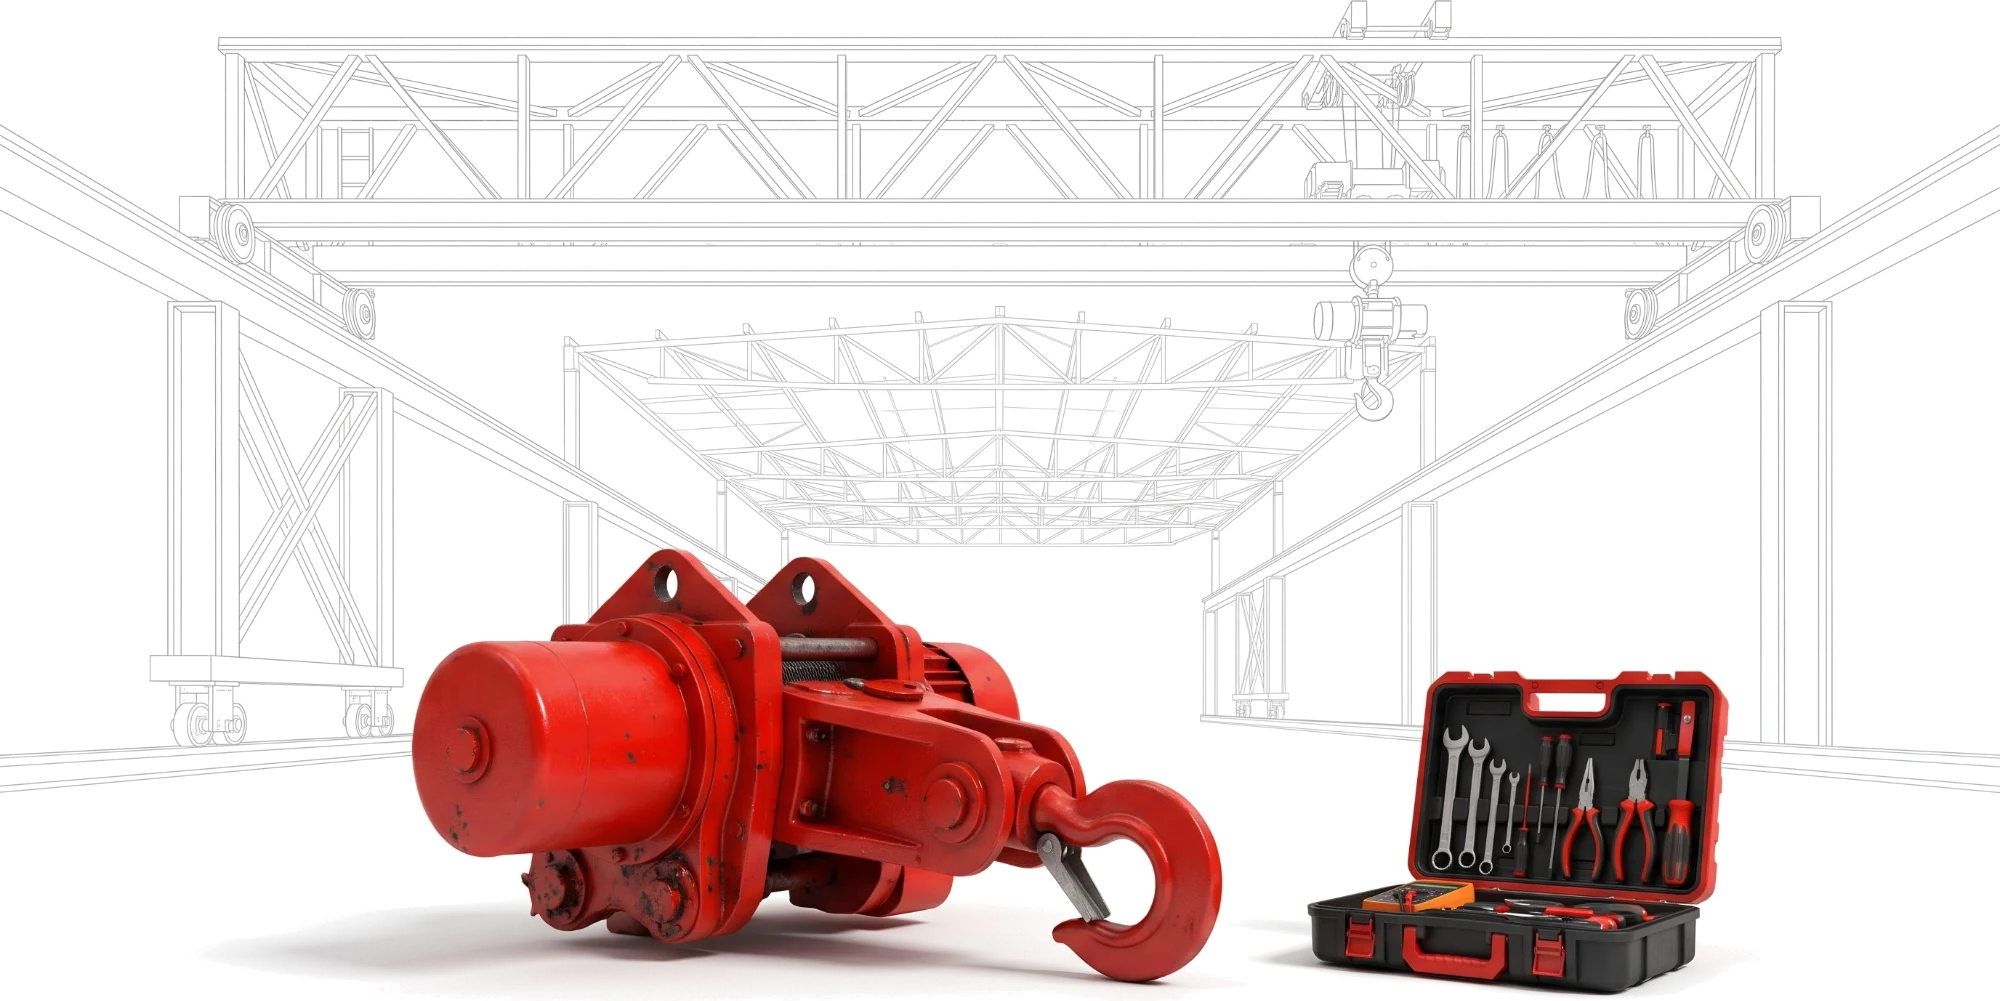
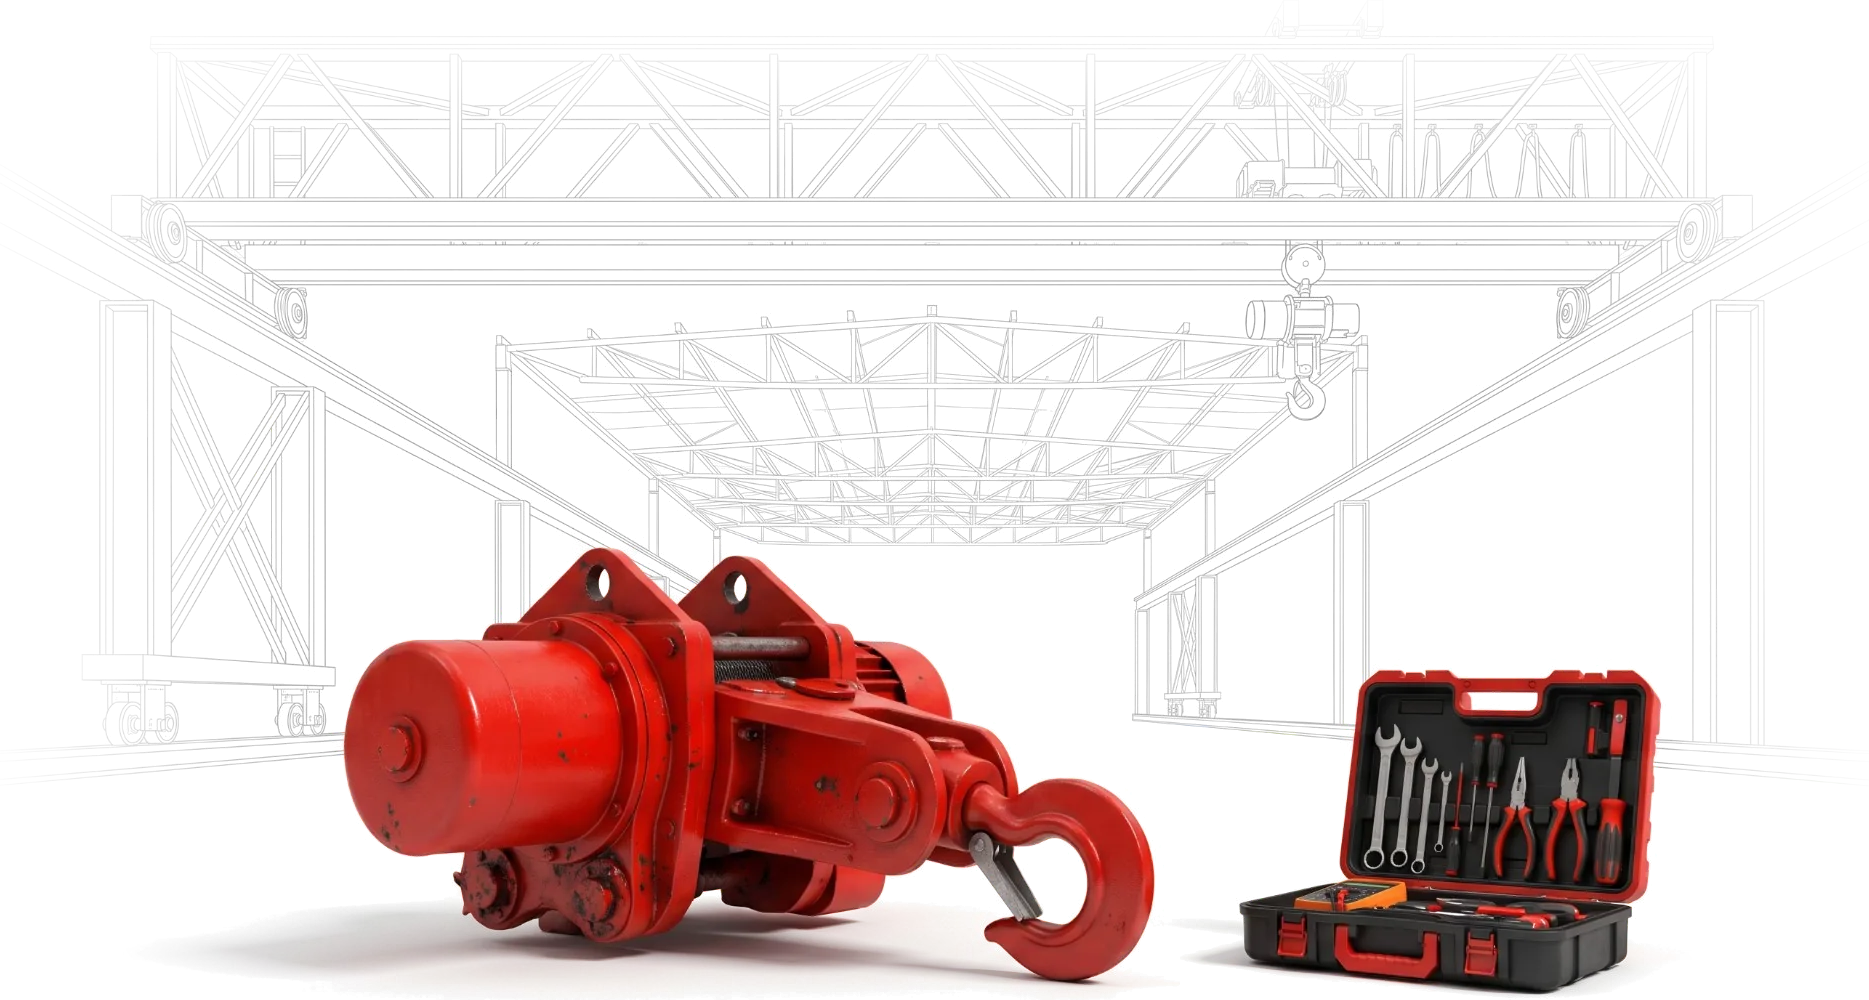
Website Krantechnik: Kopfbilder mit weichen Rändern, Situationen als Katalog, Funk wie die Garantien (Stagger), Hafen ohne Fläche
Claude-Session: https://claude.ai/code/session_017esboNdYPwqrQptFc8Seeg

diff --git a/website/src/content/krantechnik.ts b/website/src/content/krantechnik.ts
@@ -136,20 +136,20 @@ export const kraneNachMass: SubPage = {
 };
 
 /**
- * Wo ein Katalogkran nicht passt (Anker #situationen) – vier Situationen als Bühne mit Umschalter
- * (components/home/SpecialStage.astro), je mit Schnitt oder Draufsicht (src/assets/illustrations/kran-*.svg).
+ * Wo ein Katalogkran nicht passt (Anker #situationen) – alle vier Situationen auf einen Blick, gesetzt wie
+ * der Verschleissteile-Katalog (components/Magazine + PhotoCard). Solange die Fotos (config/photos.mjs
+ * `kran-*`) fehlen, steht die Zeichnung (src/assets/illustrations/kran-*.svg). Die letzte Karte fragt.
  */
 export const craneSituations = {
   title: 'Wo ein Katalogkran nicht passt',
-  lead: 'Vier Situationen, die wir oft sehen. Ihre ist nicht dabei? Fragen Sie trotzdem.',
-  legend: { grey: 'Grau: Ihr Gebäude', red: 'Rot: der Kran nach Mass' },
+  lead: 'Vier Situationen, die wir oft sehen – und wie der Kran trotzdem passt.',
   items: [
-    { title: 'Um die Ecke', tab: 'Kurve', illo: 'kran-kurve', alt: 'Zeichnung von oben: Halle in L-Form, die rote Fahrbahn biegt um die Ecke', text: 'Die Fahrbahn muss abbiegen. Wir bauen sie als Kurve, mit einem Fahrwerk, das ihr folgt.' },
-    { title: 'Über eine Steigung', tab: 'Steigung', illo: 'kran-steigung', alt: 'Zeichnung im Schnitt: Decke mit Absatz, die rote Fahrbahn steigt weich mit an', text: 'Die Decke hat einen Absatz. Die Fahrbahn steigt weich mit an – Antrieb und Bremse sind dafür ausgelegt.' },
-    { title: 'Decke mit Versatz', tab: 'Versatz', illo: 'kran-versatz', alt: 'Zeichnung im Schnitt: Decke springt in der Höhe, die rote Fahrbahn hängt gerade darunter', text: 'Die Höhe springt, Balken oder Unterzüge stören. Wir hängen die Fahrbahn so ab, dass die Hubhöhe nutzbar bleibt.' },
-    { title: 'Eng und verwinkelt', tab: 'Eng', illo: 'kran-eng', alt: 'Zeichnung von oben: Raum mit Stützen und Nische, der rote Kran erreicht die Ecke', text: 'Stützen, Nischen, wenig Platz: Ein kompakter Kran mit passendem Greifer erreicht auch die letzte Ecke.' },
+    { photo: 'kran-kurve', illo: 'kran-kurve', label: 'Kurve', title: 'Um die Ecke', alt: 'Zeichnung von oben: Halle in L-Form, die rote Fahrbahn biegt um die Ecke', text: 'Die Fahrbahn muss abbiegen. Wir bauen sie als Kurve, mit einem Fahrwerk, das ihr folgt.' },
+    { photo: 'kran-steigung', illo: 'kran-steigung', label: 'Steigung', title: 'Über eine Steigung', alt: 'Zeichnung im Schnitt: Decke mit Absatz, die rote Fahrbahn steigt weich mit an', text: 'Die Decke hat einen Absatz. Die Fahrbahn steigt weich mit an – Antrieb und Bremse sind dafür ausgelegt.' },
+    { photo: 'kran-versatz', illo: 'kran-versatz', label: 'Versatz', title: 'Decke mit Versatz', alt: 'Zeichnung im Schnitt: Decke springt in der Höhe, die rote Fahrbahn hängt gerade darunter', text: 'Die Höhe springt, Balken oder Unterzüge stören. Wir hängen die Fahrbahn so ab, dass die Hubhöhe nutzbar bleibt.' },
+    { photo: 'kran-eng', illo: 'kran-eng', label: 'Wenig Platz', title: 'Eng und verwinkelt', alt: 'Zeichnung von oben: Raum mit Stützen und Nische, der rote Kran erreicht die Ecke', text: 'Stützen, Nischen, wenig Platz: Ein kompakter Kran mit passendem Greifer erreicht auch die letzte Ecke.' },
   ],
-  cta: anfrage('Ihre Situation schildern'),
+  missing: { title: 'Ihre Situation ist nicht dabei?', text: 'Fragen Sie trotzdem. Schicken Sie uns ein paar Fotos, wir sagen Ihnen ehrlich, ob es geht.', cta: anfrage('Fotos schicken') },
 };
 
 /** Für Scheune und Halle – zwei gleich starke Bildkarten (components/PhotoCard.astro). */
@@ -341,7 +341,7 @@ export const heukrananlagen: SubPage = {
     'Heukrananlagen ohne Kabine, bedient per Funk: betreuen, umbauen, neu planen. Saison-Check, Reparatur, Ersatzteile – die erste Inspektion ist gratis.',
   hero: {
     eyebrow: 'Krantechnik · Heukrananlagen',
-    h1: 'Heu abladen, ohne ==hinaufzusteigen==',
+    h1: 'Heukrane, gebaut für ==Ihre Scheune==',
     lead:
       'Seit {{history.cranesSince}} bauen wir Heukrane nach Mass für Ihre Scheune – ohne Kabine, bedient per Funk. Bestehende Anlagen betreuen wir weiter; die erste Inspektion ist gratis.',
     photo: 'heukran-einsatz',
@@ -390,22 +390,17 @@ export const heukrananlagen: SubPage = {
 };
 
 /**
- * Funk statt Kabine (Anker #funk) – direkt nach dem Kopf der Heukrananlagen, als Raster nach dem Muster der
- * Garantien (components/kran/RadioControl.astro). Die erste Karte ist die dunkle.
+ * Funk statt Kabine (Anker #funk) – direkt nach dem Kopf der Heukrananlagen, gesetzt wie die Garantien
+ * (components/kran/RadioControl.astro → home/Stagger). Foto `heukran-funk`, bis dahin `heukran-einsatz`.
  */
 export const radioControl = {
-  title: 'Den Greifer im Blick, den ==Sender== in der Hand',
-  lead: 'Unsere Heukrane haben keine Kabine. Sie bedienen sie per Funk – vom Boden, vom Wagen oder vom Heustock aus, dort, wo Sie am besten sehen.',
-  /** Foto (config/photos.mjs `heukran-funk`), sobald es da ist; bis dahin die Zeichnung. */
+  title: 'Ohne Kabine. Mit dem ==besten Blick==.',
+  lead: 'Unsere Heukrane bedienen Sie per Funk – vom Boden, vom Wagen oder vom Heustock aus. Das kann jeder im Betrieb, auch wer nicht schwindelfrei ist.',
   photo: 'heukran-funk',
-  illo: 'heukran-funk',
-  alt: 'Zeichnung: Mensch am Boden mit Funksender, der Heukran mit Greifer über dem Heustock',
-  items: [
-    { icon: 'smartphone' as IconName, label: 'Funk statt Kabine', title: 'Kein Aufsteigen, kein Klettern.', text: 'Sender in die Hand, und der Kran läuft.' },
-    { icon: 'shield-check' as IconName, label: 'Sicht', title: 'Sie sehen, was der Greifer packt.', text: 'Mit Abstand zur Last.' },
-    { icon: 'user' as IconName, label: 'Allein', title: 'Wagen hinein, absteigen, abladen.', text: 'Es braucht niemanden in der Kabine.' },
-    { icon: 'users' as IconName, label: 'Für alle', title: 'Jeder im Betrieb kann bedienen.', text: 'Auch wer nicht schwindelfrei ist.' },
-  ],
+  fallback: 'heukran-einsatz',
+  a: { label: 'Funk statt Kabine', title: 'Sender in die Hand – und der Kran läuft.' },
+  b: { label: 'Beste Sicht', title: 'Sie sehen genau, was der Greifer packt.' },
+  c: { label: 'Allein abladen', title: 'Wagen hinein, absteigen, abladen.' },
 };
 
 /** Module der Heukran-Seite. */

diff --git a/CLAUDE.md b/CLAUDE.md
@@ -344,10 +344,12 @@ Wortlaut des Auftrags und in zentralen Punkten überholt.
 - **Gestaltung v4** (Vorlage `docs/design-system/reference/mockups/Startseite v4.dc.html`):
   Startseite aus `components/home/*`. Die drei Bereiche, ihre Unterseiten und «Über uns» haben je ein
   eigenes Layout aus denselben Bausteinen (es gibt keine Bereichs-/Unterseiten-Vorlage mehr):
-  `StageHero` (Kopf wie Porsche: grosses Wort, freigestelltes Bild oder Zeichnung) · `spezial/FieldCards`
+  `StageHero` (Kopf wie Porsche: grosses Wort, freigestelltes Bild mit weich auslaufenden Rändern) · `spezial/FieldCards`
   (Karten: Zeichnung, Titel, Satz, Pfeil) · `spezial/SolutionPath` (jeder Ablauf als Weg) ·
-  `home/SpecialStage` (Bühne mit Umschalter, bis vier Felder) · `home/Guarantees` · `SeasonCalendar`
-  (Wandkalender: Winter-Tausch, Saison-Check) · `PhotoCard` (Bildkarte: Katalog, Scheune/Halle) ·
+  `home/SpecialStage` (Bühne mit Umschalter, bis vier Felder) · `home/Stagger` (drei versetzte Karten,
+  Überschrift dazwischen: `home/Guarantees`, Funk auf den Heukrananlagen) · `SeasonCalendar`
+  (Wandkalender: Winter-Tausch, Saison-Check) · `PhotoCard` (Bildkarte; mit `illo` die Zeichnung, bis das Foto da ist) in `Magazine` (zwei Spalten
+  versetzt, schmal zum Wischen: Katalog, Situationen) ·
   `WayPair` (zwei Wege, einer dunkel) · `FactGrid` (Leistungen an Haarlinien) · `fahrzeug/*`, `kran/*`;
   Zeichnungen per Schlüssel über `lib/illustrations.ts`. Dazu `FaqStage` (höchstens 5 Fragen je
   Bereichsseite; Glas-Akkordeon über einem Bild zur offenen Frage, alle zu → Grundbild; schmal steht

diff --git a/docs/history/2026-10-23-krantechnik-neu.md b/docs/history/2026-10-23-krantechnik-neu.md
@@ -48,5 +48,16 @@ ausweisen» (WEBSITE_PLAN Entscheid 125).
   herausholen); geprüft wird im März und April, wenn der Heustock am leersten ist. Die Marken unter dem
   Kalender sind weg, was geprüft wird, steht im Satz.
 
-**Offen:** die fünf Fotos (Situationen, Funk) und ein Hafen-Foto; Belege mit echten Projekten.
+**Dritte Runde (gleicher Tag):**
+- Kopfbilder Bereich, Heukran, Kranservice: Ränder (links, rechts, oben) laufen weich aus, damit die
+  Zeichnung nicht abgeschnitten wirkt; das Rote und Dunkle bleibt voll (Maske beim Freistellen).
+- Situationen: alle vier auf einen Blick, gesetzt wie der Verschleissteile-Katalog (`Magazine` aus dem
+  Katalog herausgelöst, `PhotoCard` mit `illo`), dazu die Karte «Ihre Situation ist nicht dabei?».
+- Häfen ohne graue Fläche (Bild folgt, Prompt an den Auftraggeber).
+- Funk: gesetzt wie die Garantien – das Layout ist jetzt `home/Stagger`, die Garantien nutzen es auch.
+  Titel «Ohne Kabine. Mit dem besten Blick.», zwei neue Schemas (`schema/funk-sender.svg`,
+  `funk-sicht.svg`), Foto `heukran-funk` (bis dahin `heukran-einsatz`). Kopf «Heukrane, gebaut für
+  Ihre Scheune».
+
+**Offen:** neues Kopfbild Krane nach Mass und ein Hafen-Bild (Prompts gestellt); die fünf Fotos (Situationen, Funk) und ein Hafen-Foto; Belege mit echten Projekten.
 Die Startseite läuft bei 320 px 2 px über (Kopf, schon vorher so).
